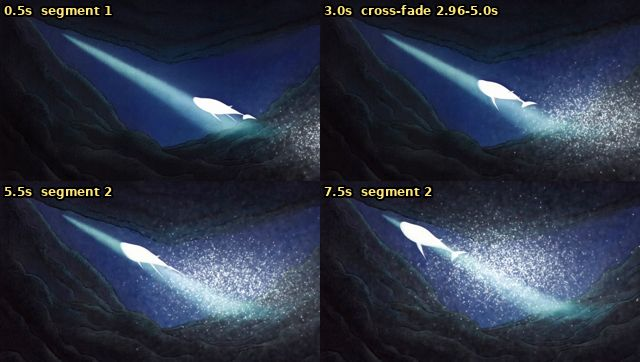
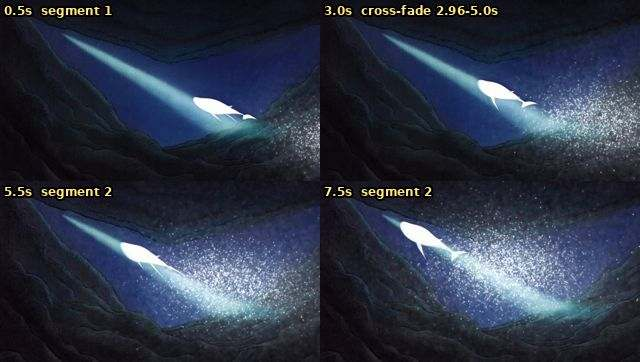
production(v15): R14 v15f (near blizzard leads) and a previs change proposal
renders/R14_f/R14_final_v15f.mp4 on the PC. The proposal (review/previs_proposal_near_blizzard.md)
asks the author whether the previs should make the near blizzard the lead in R13-R15; the previs is
not changed. Review jpgs recompressed to stay within 300 KB.

Claude-Session: https://claude.ai/code/session_01BpQ8Bj9CrZQLXeUU7oFXCe

diff --git a/dm/episode-01/ending/current/production-v15/README.md b/dm/episode-01/ending/current/production-v15/README.md
@@ -16,7 +16,7 @@ cache/<cut>/cut.json + petals/f_####.npz      ← カメラ・鯨の骨格フレ
    │ blender/render_cut.py (Blender 5.3, EEVEE)
    ▼
 renders/<cut>_<tag>/beauty/####.png  →  <cut>_guide.mp4（ガイド映像）
-   ├─【本命 v15e】render_cut.py --control near / base / petals / whale_matte → post/finish.py
+   ├─【本命 v15f】render_cut.py --look blizzard --control near / base / petals / whale_matte → post/finish.py
    │              → final/ + <cut>_final_<版>.mp4             （AIなし。層に分けて筆致・花弁の光・色を仕上げる）
    ├─ 方式① post/paint.py      → paint/ + <cut>_paint.mp4   （AIなし・絵画調の後処理。v15d で finish.py に置き換え）
    ├─ 方式② Google Flow（Gemini Omni / Veo, video-to-video） → handoff/flow_R14.md の手順で人が操作
@@ -34,7 +34,8 @@ renders/<cut>_<tag>/beauty/####.png  →  <cut>_guide.mp4（ガイド映像）
 | PC環境（リポジトリ取得・Pillow/scipy） | 済 2026-11-24 | `C:\VideoStudio\projects\ruosuen\{repo,pylib}` |
 | 書き出し R14 | 済 | 192フレーム、花弁 2万→8.5万（視野内） |
 | Blenderシーン（洞窟・裂け目・地形・水・鯨・月光柱・花弁） | 済（大枠） | 月光柱はプリヴィズ `moonlit` と一致を確認 |
-| **R14 完成版候補** | **済 v15e 2026-11-25** | `renders/R14_e/R14_final_v15e.mp4`（AIなし。明るく、遠景の花弁×3、近景の花吹雪）。並べた動画 `R14_previs_vs_v15e.mp4`。作り方は `review/R14_visual_review_v15a.md` の v15d・v15e 節。作者の確認待ち。v15d は `R14_d/` |
+| **R14 完成版候補** | **済 v15f 2026-11-25** | `renders/R14_f/R14_final_v15f.mp4`（AIなし。**近景の花吹雪が主役**、`--look blizzard`）。並べた動画 `R14_previs_vs_v15f.mp4`。作り方は `review/R14_visual_review_v15a.md` の v15d〜v15f 節。作者の確認待ち。v15e は `R14_e/`、v15d は `R14_d/` |
+| プリヴィズ変更の提案 | 作者の判断待ち | `review/previs_proposal_near_blizzard.md`：R13〜R15 で手前の花吹雪を主役に（花弁の出どころ、`local_snow` の量の決め方） |
 | 花弁の番号（idx） | 済 v15e | `export_cut.py` が花弁ごとの番号を書き出す（遠景の花弁を増やしても飛ばない）。**他のカットは export し直すこと**。R14 の旧キャッシュは `cache/R14_v1_noid` |
 | 近景の花吹雪 | 済 v15e（作者の指示） | プリヴィズの「R14 の手前は澄んだまま」を変更。`NearSnow` はカメラ固定のカット向け（動くカメラは空間に置く形に要改造） |
 | R14 本描画 1280×720 | 済 v15c 2026-11-25 | `renders/R14_c/`：プリヴィズと照合して合わせた版（尾の位相・鯨の描き方・目・空気と花弁）。並べた動画 `R14_previs_vs_v15c.mp4`。v15b は `R14_b/`、v15a は `R14_a/` |
@@ -69,12 +70,12 @@ cd C:\VideoStudio\projects\ruosuen\repo
 git fetch origin production/v15-blender-base-20261124 && git checkout production/v15-blender-base-20261124
 "C:\Program Files\Blender Foundation\Blender 5.3\blender.exe" -b -P dm\episode-01\ending\current\production-v15\pc_run.py -- --cut R14 --steps export,render,encode,paint --tag a
 "C:\Program Files\Blender Foundation\Blender 5.3\5.3\python\bin\python.exe" dm\episode-01\ending\current\production-v15\wan\vid2vid.py --video C:\VideoStudio\projects\ruosuen\renders\R14_a\R14_guide.mp4 --out C:\VideoStudio\projects\ruosuen\renders\R14_a\wan --denoise 0.55
-rem 本命 v15e：層を描く → 仕上げ（PYTHONPATH=pylib）
-"C:\Program Files\Blender Foundation\Blender 5.3\blender.exe" -b -P dm\episode-01\ending\current\production-v15\blender\render_cut.py -- --cache C:\VideoStudio\projects\ruosuen\cache\R14 --out C:\VideoStudio\projects\ruosuen\renders\R14_e --res 1280 --control near
-"C:\Program Files\Blender Foundation\Blender 5.3\blender.exe" -b -P dm\episode-01\ending\current\production-v15\blender\render_cut.py -- --cache C:\VideoStudio\projects\ruosuen\cache\R14 --out C:\VideoStudio\projects\ruosuen\renders\R14_e --res 1280 --control base
-"C:\Program Files\Blender Foundation\Blender 5.3\blender.exe" -b -P dm\episode-01\ending\current\production-v15\blender\render_cut.py -- --cache C:\VideoStudio\projects\ruosuen\cache\R14 --out C:\VideoStudio\projects\ruosuen\renders\R14_e --res 1280 --control petals
-"C:\Program Files\Blender Foundation\Blender 5.3\blender.exe" -b -P dm\episode-01\ending\current\production-v15\blender\render_cut.py -- --cache C:\VideoStudio\projects\ruosuen\cache\R14 --out C:\VideoStudio\projects\ruosuen\renders\R14_e --res 1280 --control whale_matte
-"C:\Program Files\Blender Foundation\Blender 5.3\5.3\python\bin\python.exe" dm\episode-01\ending\current\production-v15\post\finish.py --layers C:\VideoStudio\projects\ruosuen\renders\R14_e --dst C:\VideoStudio\projects\ruosuen\renders\R14_e\final --mp4 C:\VideoStudio\projects\ruosuen\renders\R14_e\R14_final_v15e.mp4
+rem 本命 v15f：層を描く → 仕上げ（PYTHONPATH=pylib）
+"C:\Program Files\Blender Foundation\Blender 5.3\blender.exe" -b -P dm\episode-01\ending\current\production-v15\blender\render_cut.py -- --cache C:\VideoStudio\projects\ruosuen\cache\R14 --out C:\VideoStudio\projects\ruosuen\renders\R14_f --res 1280 --look blizzard --control near
+"C:\Program Files\Blender Foundation\Blender 5.3\blender.exe" -b -P dm\episode-01\ending\current\production-v15\blender\render_cut.py -- --cache C:\VideoStudio\projects\ruosuen\cache\R14 --out C:\VideoStudio\projects\ruosuen\renders\R14_f --res 1280 --look blizzard --control base
+"C:\Program Files\Blender Foundation\Blender 5.3\blender.exe" -b -P dm\episode-01\ending\current\production-v15\blender\render_cut.py -- --cache C:\VideoStudio\projects\ruosuen\cache\R14 --out C:\VideoStudio\projects\ruosuen\renders\R14_f --res 1280 --look blizzard --control petals
+"C:\Program Files\Blender Foundation\Blender 5.3\blender.exe" -b -P dm\episode-01\ending\current\production-v15\blender\render_cut.py -- --cache C:\VideoStudio\projects\ruosuen\cache\R14 --out C:\VideoStudio\projects\ruosuen\renders\R14_f --res 1280 --look blizzard --control whale_matte
+"C:\Program Files\Blender Foundation\Blender 5.3\5.3\python\bin\python.exe" dm\episode-01\ending\current\production-v15\post\finish.py --layers C:\VideoStudio\projects\ruosuen\renders\R14_f --dst C:\VideoStudio\projects\ruosuen\renders\R14_f\final --dab 0.3 --fine 0.12 --mist 0.25 --gain 1.2 --mp4 C:\VideoStudio\projects\ruosuen\renders\R14_f\R14_final_v15f.mp4
 rem 方式③制御：奥行きの制御映像 → Fun-Control（models/diffusion_models/wan2.2_fun_control_5B_bf16.safetensors が要る）
 "C:\Program Files\Blender Foundation\Blender 5.3\blender.exe" -b -P dm\episode-01\ending\current\production-v15\blender\render_cut.py -- --cache C:\VideoStudio\projects\ruosuen\cache\R14 --out C:\VideoStudio\projects\ruosuen\renders\R14_b --res 960 --control depth
 "C:\Program Files\Blender Foundation\Blender 5.3\blender.exe" -b -P dm\episode-01\ending\current\production-v15\blender\render_cut.py -- --cache C:\VideoStudio\projects\ruosuen\cache\R14 --out C:\VideoStudio\projects\ruosuen\renders\R14_b --res 1280 --control petals

diff --git a/dm/episode-01/ending/current/production-v15/review/previs_proposal_near_blizzard.md b/dm/episode-01/ending/current/production-v15/review/previs_proposal_near_blizzard.md
@@ -1,0 +1,32 @@
+# プリヴィズ変更の提案：手前の花吹雪を主役に（R13〜R17b）— 2026-11-25
+
+> DM資料。プリヴィズ v14.9b（`../../previs/v14-director-rebuild/`）は動き・タイミング・カメラの唯一の正。ここは**提案**で、プリヴィズはまだ変えていない。採否は作者が決める。
+
+## きっかけ（作者 2026-11-25）
+R14 の v15e/v15f を見て：「近景の花吹雪の方が、鯨にまとわりつく花吹雪よりも明らかにばえる。こちらを中心に作り直して欲しい。プリヴィズの作り直しもいるかも」。
+
+## いまのプリヴィズ（v14.9b）の決まり
+- 花雪の本体は、群落から離れた約19.4万枚が鯨の光に呼ばれて**鯨の後ろの川・雲**になる流れ（「呼ばれた花雪」）。カメラから遠い（R14 では鯨まで約170 m）ので、画面では細かい粒の帯になる。
+- 手前の花吹雪の層（`Renderer.local_snow`）はあるが、**量はカメラの20 m以内に実際に届いた花弁の数に比例**（v14.8）。R13・R14 では花弁がカメラに届かないので**手前は澄んだまま**。R15 では鯨と一緒に押し寄せる。R17b は魔法の解けた花弁がまばらに降る。
+- つまり「見せ場の花吹雪」は、プリヴィズの設計では**遠くの川**で、手前の花吹雪は脇役。
+
+## 提案
+**手前の花吹雪（花弁の形が読める 3〜60 m）を、R13〜R15 の主役にする。** 鯨の後ろの川は、遠くの光の帯として残す。
+
+1. **花弁の出どころ**：離脱の脈動（36.5秒）で、鯨の光が届いた範囲の群落だけでなく、**冒険者のいる岸（PC 側）のまわりの花も一斉に離れる**（または、東岸から湖を渡ってくる突風が PC 側の岸へ花弁を運ぶ）。これで R13〜R15 のカメラ（すべて冒険者の近く）が花吹雪の**中**にいる理由ができる。
+2. **流れ**：手前の花弁は「空へ降る雪」として昇りながら、鯨の通った跡の方へ流れる（R14 の v15f と同じ向き）。突風の波で速さが揺れる。鯨に呼ばれるのは遠くの川だけ。
+3. **カットごと**
+   - R13（花の中、45 cm）：足もとから花弁がいっせいに離れて昇る。いまの「昇る花弁を追って首を振る」がそのまま主役になる。
+   - R14（岸から 55 mm、8秒の長回し）：手前を花吹雪が満たし、その奥に鯨。**今回の v15f の画**。
+   - R15（すれ違い、スロー）：いまどおり押し寄せる。量の決め方を「届いた数」から外す。
+   - R17b（4人の見送り）：変えない（魔法の解けた花弁がまばらに降る）。
+4. **やり方（プリヴィズ側の変更点）**：`local_snow` の量を「カメラの20 m以内に届いた花弁の数」から切り離し、離脱の脈動からの時間で決まる量にする（R13・R14 も満ちる）。奥行きを 18 m → 60 m に広げ、遠いものは粒・近いものは花弁の形で描く。シミュレーション本体（19.4万枚の川）・鯨・カメラ・時刻は変えない。
+
+## 影響
+- 感情の流れ：R13〜R15 で観客（冒険者）が**花吹雪の中に立つ**。鯨を外から眺める画から、同じ空気の中にいる画になる。R15 の「押し寄せる」の驚きは少し弱まる（すでに花吹雪の中にいるため）。R15 は量を一段増やして山にするとよい。
+- 本番側：R14 は `render_cut.py --look blizzard`（`NearSnow`）がこの提案を先取りしている。プリヴィズが変われば、`NearSnow` をプリヴィズの `local_snow` の書き出しに置き換えられる（動くカメラの R15 にもそのまま使える）。
+
+## 作者に決めてほしいこと
+1. この方向でプリヴィズを直してよいか（直すなら v14.10 として、R13〜R15 の再描画と確認を行う）。
+2. 花弁の出どころ：PC 側の岸の花も離れる／突風が運んでくる、のどちらがよいか。
+3. R15 の「押し寄せる」驚きを残すために、R14 の手前の量を R15 より控えめにするか。
